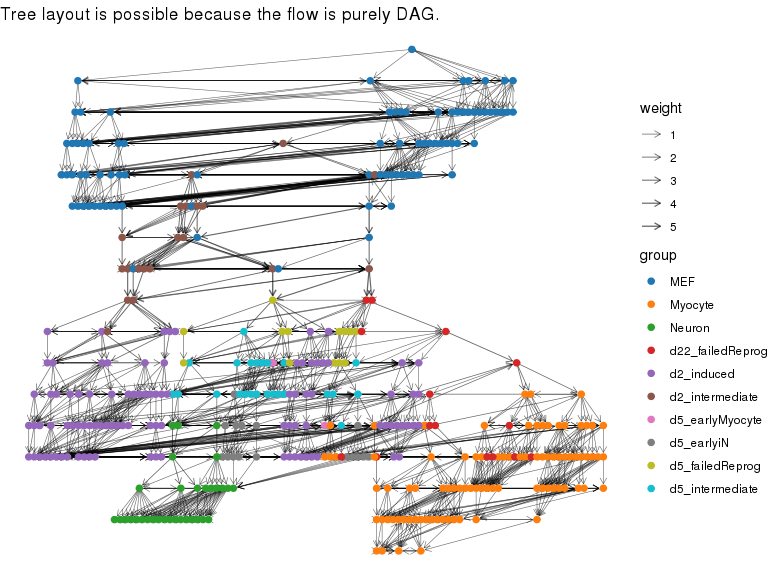
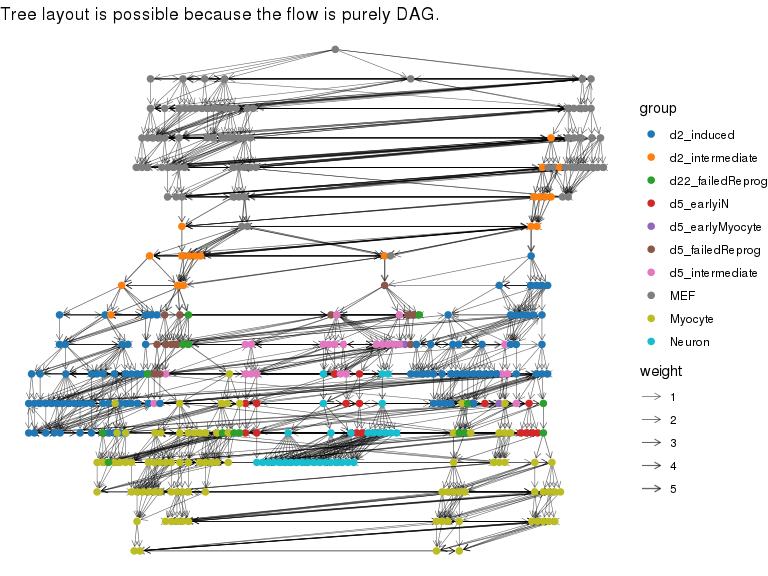
fixed wrong sign in laplacian1 and some typos

diff --git a/README.md b/README.md
@@ -7,7 +7,9 @@ ddhodge
 
 The goal of ddhodge is to be a toolkit to analyse underlying "flow" structure (e.g., time or causal relations) in the *hodge-podge* collection of data points. ddhodge will help to interpret/visualize the large data sets including, but not limited to, high-throughput measurements of biological data (e.g., single-cell RNA-seq) which we mainly focus on.
 
-ddhodge is built on a mathematical framework of Hodge decomposition on simplicial complex that gives us fruitful analogy of gradient, curl and harmonic (cyclic) flows on manifold. ddhoge can thus potentially handles any (both of acyclic and cyclic) directed graph structure; however, the first version of this package implements only `diffusionGraph` which gives a potential flow (directed acyclic graph).
+ddhodge is built on a mathematical framework of Hodge decomposition on simplicial complex that gives us fruitful analogy of gradient, curl and harmonic (cyclic) flows on manifold. ddhoge can thus potentially handles any (both of acyclic and cyclic) directed graph structure.
+
+The first version of this package implements `diffusionGraph` as a design of edges. The resulting graph consists of sparse gradient flows (i.e. pure directed acyclic graph) and is suitable to sketch out the ideas from a simplified flow network of a stochastic process along high-dimensional energy landscape.
 
 Installation
 ------------
@@ -57,7 +59,7 @@ X <- 2^X[apply(X,1,var)>0,] - 1
 Specify input data matrix and roots (starting points).
 
 ``` r
-g <- diffusionGraph(X,group=="MEF",k=7,ndc=40) 
+g <- diffusionGraph(X,group=="MEF",k=7,ndc=40)
 ```
 
 #### Visualizations
@@ -75,48 +77,74 @@ dggraph <- function(g,...)
 
 igraph::V(g)$group <- group
 set.seed(123) # for reproducible graph layout
-lo <- create_layout(g,"nicely")
+lo <- create_layout(g,"fr")
 
-dggraph(lo,aes(colour=group),size=2) +
+p1 <- dggraph(lo,aes(colour=group),size=2) +
   ggtitle("Sparse reconstruction of diffusion process (k=7)") +
   scale_color_d3("category10")
+
+p2 <- dggraph(lo,aes(colour=div,size=div^2)) +
+  ggtitle("Divergence tells us the source and sink.") +
+  scale_color_gradient2(low="blue",mid="grey",high="red")
+
+p3 <- dggraph(lo,aes(colour=u),size=2) +
+  ggtitle("Potential is considered to be a pseudo-time.") +
+  scale_color_viridis()
+
+p4 <- create_layout(g,"tree") %>%
+  dggraph(aes(colour=group),size=2) +
+  ggtitle("Tree layout is possible because the flow is purely DAG.") +
+  scale_color_d3("category10")
+
+print(list(p1,p2,p3,p4))
+#> [[1]]
 ```
 
 <img src="man/figures/README-drawGraph-1.png" width="100%" />
 
-``` r
-
-dggraph(lo,aes(colour=div,size=div^2)) +
-  ggtitle("Divergence tells us the source and sink.") +
-  scale_color_gradient2(low="blue",mid="grey",high="red")
-```
+    #> 
+    #> [[2]]
 
 <img src="man/figures/README-drawGraph-2.png" width="100%" />
 
-``` r
-
-dggraph(lo,aes(colour=u),size=2) +
-  ggtitle("Potential is considered to be a pseudo-time.") +
-  scale_color_viridis()
-```
+    #> 
+    #> [[3]]
 
 <img src="man/figures/README-drawGraph-3.png" width="100%" />
 
-``` r
-
-create_layout(g,"tree") %>%
-  dggraph(aes(colour=group),size=2) +
-  ggtitle("Tree layout is possible because the flow is purely DAG.") +
-  scale_color_d3("category10")
-```
+    #> 
+    #> [[4]]
 
 <img src="man/figures/README-drawGraph-4.png" width="100%" />
+
+### Max-flow
+
+Max-flow as a mainstream of paths between specified source-sink pair.
+
+``` r
+mf <- igraph::max_flow(g,
+  source = which(group=="MEF")[3],
+  target = which(group=="Neuron")[11],
+  capacity = igraph::E(g)$weight
+)
+igraph::E(g)$flow <- mf$flow
+set.seed(77)
+ggraph(g,"lgl") + theme_void() +
+  geom_node_point(aes(colour=group,size=div^2)) +
+  geom_edge_link(
+    aes(width=flow),
+    colour="black",
+    arrow=arrow(length=unit(1.8,"mm")),
+    end_cap = circle(1.2,'mm'), alpha=0.6,
+) + scale_edge_width(range=c(0,3)) + scale_color_d3("category10")
+```
+
+<img src="man/figures/README-maxflow-1.png" width="100%" />
 
 TODO
 ----
 
 -   Add more examples and documentations
--   Extracting nodes along specified paths (e.g., from source to sink)
 -   Assessing cluster-to-cluster flow for coarse-grained interpretation of data
 -   Construction of causal graph structure including cyclic flows
 -   Pseudo-dynamics reconstruction using extracted pseudo-time structures
